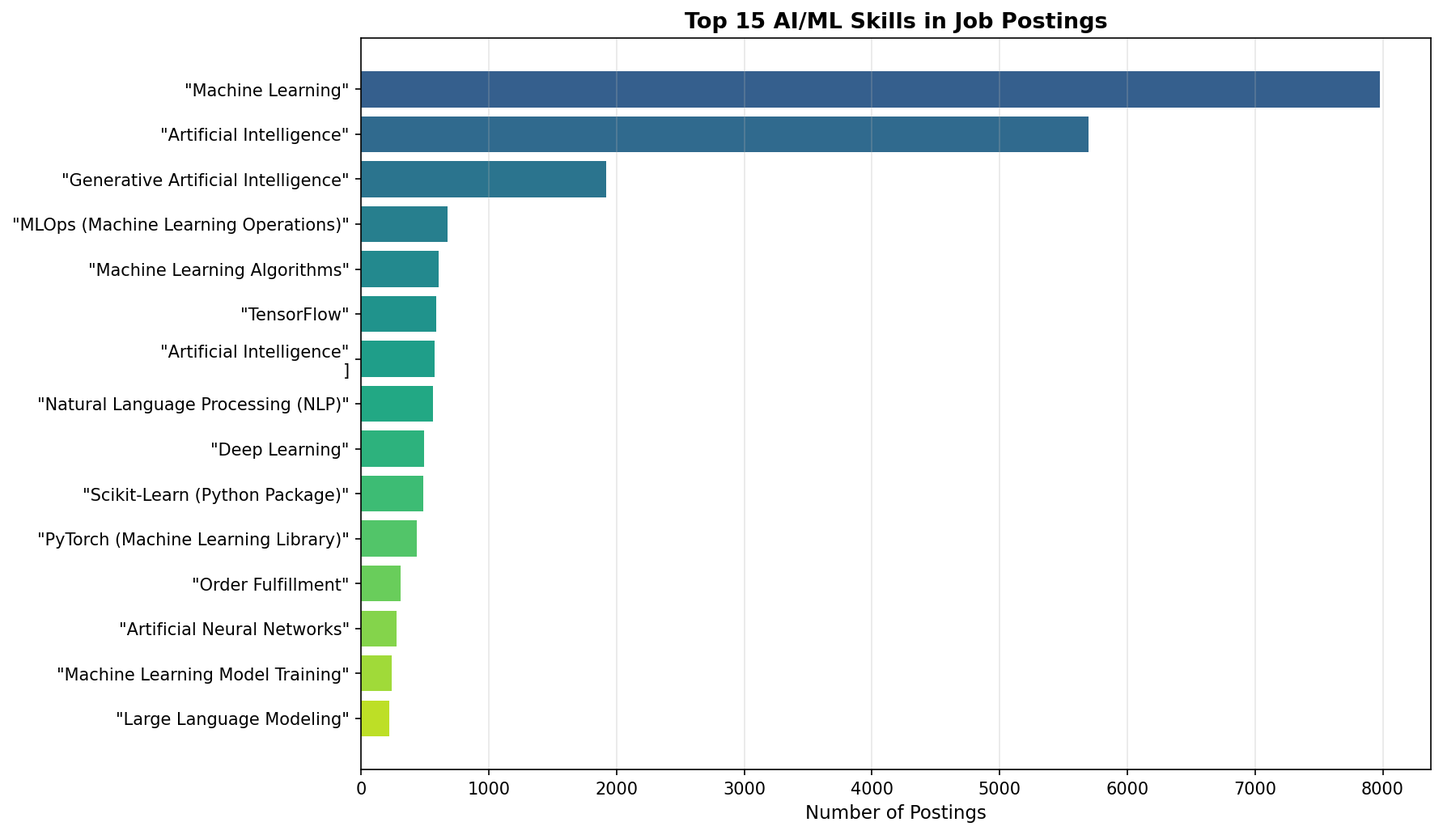
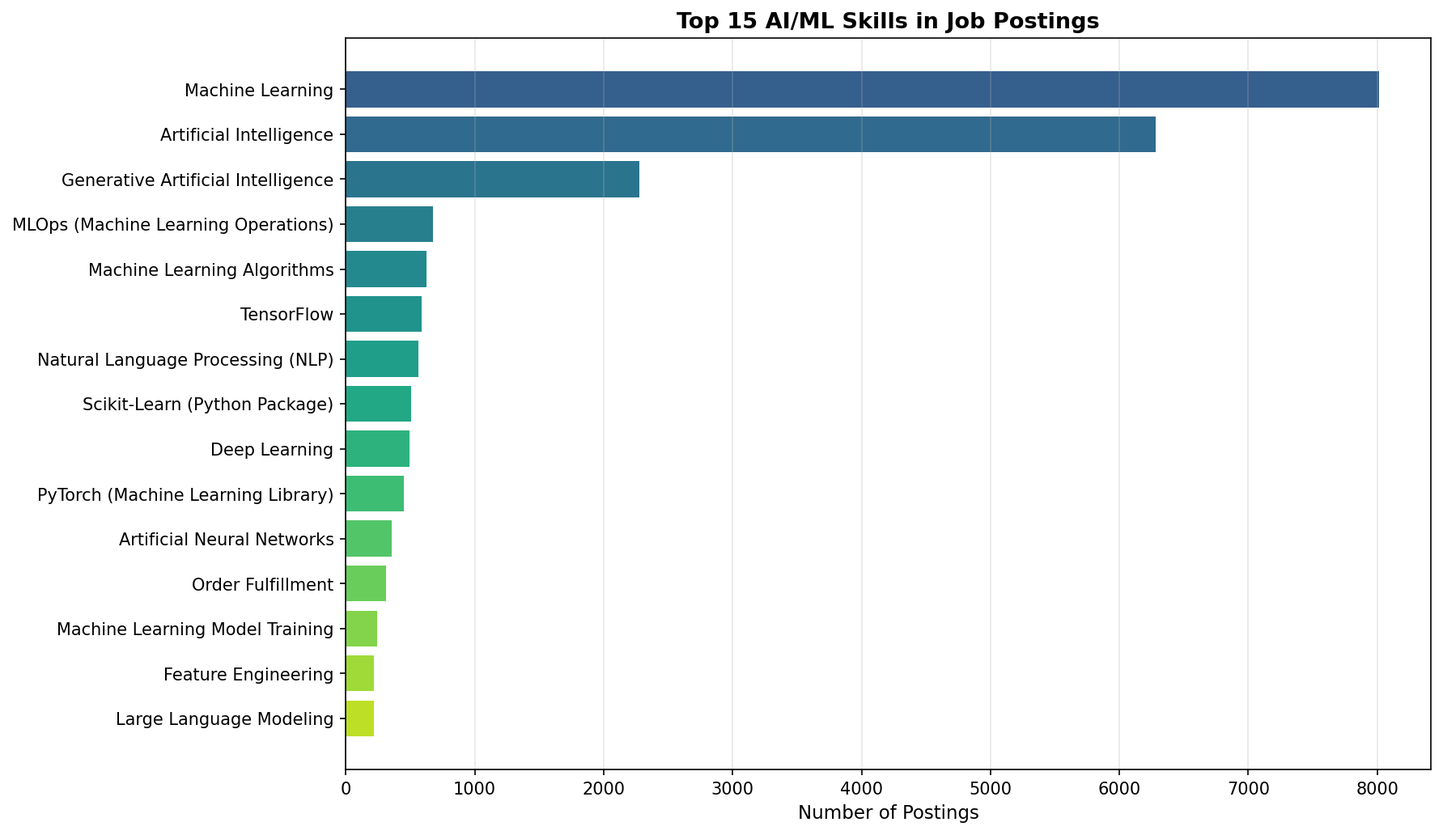
changes to html

diff --git a/_site/omar.html b/_site/omar.html
@@ -22,40 +22,6 @@ ul.task-list li input[type="checkbox"] {
   margin: 0 0.8em 0.2em -1em; /* quarto-specific, see https://github.com/quarto-dev/quarto-cli/issues/4556 */ 
   vertical-align: middle;
 }
-/* CSS for syntax highlighting */
-pre > code.sourceCode { white-space: pre; position: relative; }
-pre > code.sourceCode > span { line-height: 1.25; }
-pre > code.sourceCode > span:empty { height: 1.2em; }
-.sourceCode { overflow: visible; }
-code.sourceCode > span { color: inherit; text-decoration: inherit; }
-div.sourceCode { margin: 1em 0; }
-pre.sourceCode { margin: 0; }
-@media screen {
-div.sourceCode { overflow: auto; }
-}
-@media print {
-pre > code.sourceCode { white-space: pre-wrap; }
-pre > code.sourceCode > span { display: inline-block; text-indent: -5em; padding-left: 5em; }
-}
-pre.numberSource code
-  { counter-reset: source-line 0; }
-pre.numberSource code > span
-  { position: relative; left: -4em; counter-increment: source-line; }
-pre.numberSource code > span > a:first-child::before
-  { content: counter(source-line);
-    position: relative; left: -1em; text-align: right; vertical-align: baseline;
-    border: none; display: inline-block;
-    -webkit-touch-callout: none; -webkit-user-select: none;
-    -khtml-user-select: none; -moz-user-select: none;
-    -ms-user-select: none; user-select: none;
-    padding: 0 4px; width: 4em;
-  }
-pre.numberSource { margin-left: 3em;  padding-left: 4px; }
-div.sourceCode
-  {   }
-@media screen {
-pre > code.sourceCode > span > a:first-child::before { text-decoration: underline; }
-}
 /* CSS for citations */
 div.csl-bib-body { }
 div.csl-entry {
@@ -277,21 +243,7 @@ div.csl-indent {
 <section id="data-loading" class="level2">
 <h2 class="anchored" data-anchor-id="data-loading">Data Loading</h2>
 <p>We load the cleaned Lightcast dataset produced by our shared <a href="./data_cleaning.html">Data Cleaning</a> page. This file has already been deduplicated, date-parsed, and had its skills columns split into Python lists, so we can jump straight into analysis.</p>
-<div id="7e96db46" class="cell" data-execution_count="1">
-<div class="sourceCode cell-code" id="cb1"><pre class="sourceCode python code-with-copy"><code class="sourceCode python"><span id="cb1-1"><a href="#cb1-1" aria-hidden="true" tabindex="-1"></a><span class="im">import</span> pandas <span class="im">as</span> pd</span>
-<span id="cb1-2"><a href="#cb1-2" aria-hidden="true" tabindex="-1"></a><span class="im">import</span> matplotlib</span>
-<span id="cb1-3"><a href="#cb1-3" aria-hidden="true" tabindex="-1"></a>matplotlib.use(<span class="st">'Agg'</span>)</span>
-<span id="cb1-4"><a href="#cb1-4" aria-hidden="true" tabindex="-1"></a><span class="im">import</span> matplotlib.pyplot <span class="im">as</span> plt</span>
-<span id="cb1-5"><a href="#cb1-5" aria-hidden="true" tabindex="-1"></a><span class="im">import</span> numpy <span class="im">as</span> np</span>
-<span id="cb1-6"><a href="#cb1-6" aria-hidden="true" tabindex="-1"></a></span>
-<span id="cb1-7"><a href="#cb1-7" aria-hidden="true" tabindex="-1"></a>df <span class="op">=</span> pd.read_csv(<span class="st">"data/lightcast_cleaned.csv"</span>, parse_dates<span class="op">=</span>[<span class="st">"posted"</span>, <span class="st">"expired"</span>])</span>
-<span id="cb1-8"><a href="#cb1-8" aria-hidden="true" tabindex="-1"></a></span>
-<span id="cb1-9"><a href="#cb1-9" aria-hidden="true" tabindex="-1"></a><span class="co"># Skills columns are stored as pipe-separated strings in the CSV — split back into lists</span></span>
-<span id="cb1-10"><a href="#cb1-10" aria-hidden="true" tabindex="-1"></a><span class="cf">for</span> col <span class="kw">in</span> [<span class="st">"skills_name"</span>, <span class="st">"specialized_skills_name"</span>, <span class="st">"software_skills_name"</span>]:</span>
-<span id="cb1-11"><a href="#cb1-11" aria-hidden="true" tabindex="-1"></a>    <span class="cf">if</span> col <span class="kw">in</span> df.columns:</span>
-<span id="cb1-12"><a href="#cb1-12" aria-hidden="true" tabindex="-1"></a>        df[col] <span class="op">=</span> df[col].fillna(<span class="st">""</span>).<span class="bu">apply</span>(<span class="kw">lambda</span> s: s.split(<span class="st">"|"</span>) <span class="cf">if</span> s <span class="cf">else</span> [])</span>
-<span id="cb1-13"><a href="#cb1-13" aria-hidden="true" tabindex="-1"></a></span>
-<span id="cb1-14"><a href="#cb1-14" aria-hidden="true" tabindex="-1"></a><span class="bu">print</span>(<span class="ss">f"Total postings: </span><span class="sc">{</span><span class="bu">len</span>(df)<span class="sc">:,}</span><span class="ss">"</span>)</span></code><button title="Copy to Clipboard" class="code-copy-button"><i class="bi"></i></button></pre></div>
+<div id="ed06ab94" class="cell" data-execution_count="1">
 <div class="cell-output cell-output-stdout">
 <pre><code>Total postings: 72,454</code></pre>
 </div>
@@ -300,29 +252,7 @@ div.csl-indent {
 <section id="filtering-for-relevant-roles" class="level2">
 <h2 class="anchored" data-anchor-id="filtering-for-relevant-roles">Filtering for Relevant Roles</h2>
 <p>To focus on data science, business analytics, and ML roles, we categorize each posting using keywords matched against the <code>title_name</code> (Lightcast’s standardized job title) and <code>onet_name</code> (Bureau of Labor Statistics occupation classification) columns. This dual-column approach ensures we capture roles that may have non-standard titles but are classified under relevant O*NET codes.</p>
-<div id="cb5ce4a5" class="cell" data-execution_count="2">
-<div class="sourceCode cell-code" id="cb3"><pre class="sourceCode python code-with-copy"><code class="sourceCode python"><span id="cb3-1"><a href="#cb3-1" aria-hidden="true" tabindex="-1"></a>ds_ml_titles <span class="op">=</span> [<span class="st">'data scien'</span>, <span class="st">'machine learn'</span>, <span class="st">'deep learn'</span>, <span class="st">'ai engineer'</span>,</span>
-<span id="cb3-2"><a href="#cb3-2" aria-hidden="true" tabindex="-1"></a>                <span class="st">'nlp engineer'</span>, <span class="st">'computer vision'</span>]</span>
-<span id="cb3-3"><a href="#cb3-3" aria-hidden="true" tabindex="-1"></a>ba_titles <span class="op">=</span> [<span class="st">'business intel'</span>, <span class="st">'business analy'</span>, <span class="st">'bi analyst'</span>, <span class="st">'bi developer'</span>]</span>
-<span id="cb3-4"><a href="#cb3-4" aria-hidden="true" tabindex="-1"></a>da_titles <span class="op">=</span> [<span class="st">'data analy'</span>]</span>
-<span id="cb3-5"><a href="#cb3-5" aria-hidden="true" tabindex="-1"></a>de_titles <span class="op">=</span> [<span class="st">'data engineer'</span>]</span>
-<span id="cb3-6"><a href="#cb3-6" aria-hidden="true" tabindex="-1"></a></span>
-<span id="cb3-7"><a href="#cb3-7" aria-hidden="true" tabindex="-1"></a><span class="kw">def</span> categorize(row):</span>
-<span id="cb3-8"><a href="#cb3-8" aria-hidden="true" tabindex="-1"></a>    t <span class="op">=</span> <span class="bu">str</span>(row[<span class="st">'title_name'</span>]).lower()</span>
-<span id="cb3-9"><a href="#cb3-9" aria-hidden="true" tabindex="-1"></a>    o <span class="op">=</span> <span class="bu">str</span>(row[<span class="st">'onet_name'</span>]).lower()</span>
-<span id="cb3-10"><a href="#cb3-10" aria-hidden="true" tabindex="-1"></a>    c <span class="op">=</span> t <span class="op">+</span> <span class="st">' '</span> <span class="op">+</span> o</span>
-<span id="cb3-11"><a href="#cb3-11" aria-hidden="true" tabindex="-1"></a>    <span class="cf">if</span> <span class="bu">any</span>(k <span class="kw">in</span> c <span class="cf">for</span> k <span class="kw">in</span> ds_ml_titles): <span class="cf">return</span> <span class="st">'Data Science / ML'</span></span>
-<span id="cb3-12"><a href="#cb3-12" aria-hidden="true" tabindex="-1"></a>    <span class="cf">if</span> <span class="bu">any</span>(k <span class="kw">in</span> c <span class="cf">for</span> k <span class="kw">in</span> ba_titles): <span class="cf">return</span> <span class="st">'Business Analytics / BI'</span></span>
-<span id="cb3-13"><a href="#cb3-13" aria-hidden="true" tabindex="-1"></a>    <span class="cf">if</span> <span class="bu">any</span>(k <span class="kw">in</span> c <span class="cf">for</span> k <span class="kw">in</span> da_titles): <span class="cf">return</span> <span class="st">'Data Analytics'</span></span>
-<span id="cb3-14"><a href="#cb3-14" aria-hidden="true" tabindex="-1"></a>    <span class="cf">if</span> <span class="bu">any</span>(k <span class="kw">in</span> c <span class="cf">for</span> k <span class="kw">in</span> de_titles): <span class="cf">return</span> <span class="st">'Data Engineering'</span></span>
-<span id="cb3-15"><a href="#cb3-15" aria-hidden="true" tabindex="-1"></a>    <span class="cf">return</span> <span class="va">None</span></span>
-<span id="cb3-16"><a href="#cb3-16" aria-hidden="true" tabindex="-1"></a></span>
-<span id="cb3-17"><a href="#cb3-17" aria-hidden="true" tabindex="-1"></a>df[<span class="st">'role_category'</span>] <span class="op">=</span> df.<span class="bu">apply</span>(categorize, axis<span class="op">=</span><span class="dv">1</span>)</span>
-<span id="cb3-18"><a href="#cb3-18" aria-hidden="true" tabindex="-1"></a>df_filtered <span class="op">=</span> df[df[<span class="st">'role_category'</span>].notna()].copy()</span>
-<span id="cb3-19"><a href="#cb3-19" aria-hidden="true" tabindex="-1"></a><span class="bu">print</span>(<span class="ss">f"Filtered to </span><span class="sc">{</span><span class="bu">len</span>(df_filtered)<span class="sc">:,}</span><span class="ss"> relevant postings (</span><span class="sc">{</span><span class="bu">len</span>(df_filtered)<span class="op">/</span><span class="bu">len</span>(df)<span class="op">*</span><span class="dv">100</span><span class="sc">:.1f}</span><span class="ss">%)</span><span class="ch">\n</span><span class="ss">"</span>)</span>
-<span id="cb3-20"><a href="#cb3-20" aria-hidden="true" tabindex="-1"></a></span>
-<span id="cb3-21"><a href="#cb3-21" aria-hidden="true" tabindex="-1"></a><span class="bu">print</span>(<span class="st">"Role distribution:"</span>)</span>
-<span id="cb3-22"><a href="#cb3-22" aria-hidden="true" tabindex="-1"></a><span class="bu">print</span>(df_filtered[<span class="st">'role_category'</span>].value_counts().to_string())</span></code><button title="Copy to Clipboard" class="code-copy-button"><i class="bi"></i></button></pre></div>
+<div id="aa01267b" class="cell" data-execution_count="2">
 <div class="cell-output cell-output-stdout">
 <pre><code>Filtered to 72,454 relevant postings (100.0%)
 
@@ -336,18 +266,7 @@ Data Science / ML            585</code></pre>
 <section id="top-30-most-in-demand-skills-overall" class="level2">
 <h2 class="anchored" data-anchor-id="top-30-most-in-demand-skills-overall">Top 30 Most In-Demand Skills (Overall)</h2>
 <p>We explode the skill lists so that each skill–posting pair becomes its own row, then count the frequency of each skill across all filtered postings. This gives us the overall demand landscape. This approach is consistent with how <span class="citation" data-cites="radovilsky2018skills">Radovilsky et al. (<a href="#ref-radovilsky2018skills" role="doc-biblioref">2018</a>)</span> extracted and categorized skill keywords from job posting text.</p>
-<div id="08cdbbbd" class="cell" data-execution_count="3">
-<div class="sourceCode cell-code" id="cb5"><pre class="sourceCode python code-with-copy"><code class="sourceCode python"><span id="cb5-1"><a href="#cb5-1" aria-hidden="true" tabindex="-1"></a>all_skills <span class="op">=</span> df_filtered[<span class="st">'skills_name'</span>].explode().dropna()</span>
-<span id="cb5-2"><a href="#cb5-2" aria-hidden="true" tabindex="-1"></a>all_skills <span class="op">=</span> all_skills[all_skills <span class="op">!=</span> <span class="st">''</span>]</span>
-<span id="cb5-3"><a href="#cb5-3" aria-hidden="true" tabindex="-1"></a>all_counts <span class="op">=</span> all_skills.value_counts()</span>
-<span id="cb5-4"><a href="#cb5-4" aria-hidden="true" tabindex="-1"></a></span>
-<span id="cb5-5"><a href="#cb5-5" aria-hidden="true" tabindex="-1"></a><span class="bu">print</span>(<span class="ss">f"</span><span class="ch">\n</span><span class="sc">{</span><span class="st">'='</span><span class="op">*</span><span class="dv">65</span><span class="sc">}</span><span class="ss">"</span>)</span>
-<span id="cb5-6"><a href="#cb5-6" aria-hidden="true" tabindex="-1"></a><span class="bu">print</span>(<span class="ss">f"TOP 30 MOST IN-DEMAND SKILLS (DS + BA + ML + DE)"</span>)</span>
-<span id="cb5-7"><a href="#cb5-7" aria-hidden="true" tabindex="-1"></a><span class="bu">print</span>(<span class="ss">f"</span><span class="sc">{</span><span class="st">'='</span><span class="op">*</span><span class="dv">65</span><span class="sc">}</span><span class="ss">"</span>)</span>
-<span id="cb5-8"><a href="#cb5-8" aria-hidden="true" tabindex="-1"></a><span class="bu">print</span>(<span class="ss">f"</span><span class="sc">{</span><span class="st">'Rank'</span><span class="sc">:&lt;5}</span><span class="ss"> </span><span class="sc">{</span><span class="st">'Skill'</span><span class="sc">:&lt;40}</span><span class="ss"> </span><span class="sc">{</span><span class="st">'Count'</span><span class="sc">:&gt;7}</span><span class="ss"> </span><span class="sc">{</span><span class="st">'% Posts'</span><span class="sc">:&gt;8}</span><span class="ss">"</span>)</span>
-<span id="cb5-9"><a href="#cb5-9" aria-hidden="true" tabindex="-1"></a><span class="bu">print</span>(<span class="ss">f"</span><span class="sc">{</span><span class="st">'-'</span><span class="op">*</span><span class="dv">65</span><span class="sc">}</span><span class="ss">"</span>)</span>
-<span id="cb5-10"><a href="#cb5-10" aria-hidden="true" tabindex="-1"></a><span class="cf">for</span> r,(s,c) <span class="kw">in</span> <span class="bu">enumerate</span>(all_counts.head(<span class="dv">30</span>).items(),<span class="dv">1</span>):</span>
-<span id="cb5-11"><a href="#cb5-11" aria-hidden="true" tabindex="-1"></a>    <span class="bu">print</span>(<span class="ss">f"</span><span class="sc">{</span>r<span class="sc">:&lt;5}</span><span class="ss"> </span><span class="sc">{</span>s<span class="sc">:&lt;40}</span><span class="ss"> </span><span class="sc">{</span>c<span class="sc">:&gt;7,}</span><span class="ss"> </span><span class="sc">{</span>c<span class="op">/</span><span class="bu">len</span>(df_filtered)<span class="op">*</span><span class="dv">100</span><span class="sc">:&gt;7.1f}</span><span class="ss">%"</span>)</span></code><button title="Copy to Clipboard" class="code-copy-button"><i class="bi"></i></button></pre></div>
+<div id="28ca8221" class="cell" data-execution_count="3">
 <div class="cell-output cell-output-stdout">
 <pre><code>
 =================================================================
@@ -391,16 +310,7 @@ Rank  Skill                                      Count  % Posts
 <section id="top-20-software-and-tools" class="level2">
 <h2 class="anchored" data-anchor-id="top-20-software-and-tools">Top 20 Software and Tools</h2>
 <p>Lightcast separately tags software and tool skills in the <code>software_skills_name</code> column, allowing us to isolate the specific technologies employers require. The dominance of SQL in this ranking aligns with findings from <span class="citation" data-cites="verma2019investigation">Verma et al. (<a href="#ref-verma2019investigation" role="doc-biblioref">2019</a>)</span>, who identified SQL as the most frequently listed technical requirement in analytics job advertisements.</p>
-<div id="888a939e" class="cell" data-execution_count="4">
-<div class="sourceCode cell-code" id="cb7"><pre class="sourceCode python code-with-copy"><code class="sourceCode python"><span id="cb7-1"><a href="#cb7-1" aria-hidden="true" tabindex="-1"></a>sw <span class="op">=</span> df_filtered[<span class="st">'software_skills_name'</span>].explode().dropna()</span>
-<span id="cb7-2"><a href="#cb7-2" aria-hidden="true" tabindex="-1"></a>sw <span class="op">=</span> sw[sw <span class="op">!=</span> <span class="st">''</span>]</span>
-<span id="cb7-3"><a href="#cb7-3" aria-hidden="true" tabindex="-1"></a>sw_counts <span class="op">=</span> sw.value_counts()</span>
-<span id="cb7-4"><a href="#cb7-4" aria-hidden="true" tabindex="-1"></a></span>
-<span id="cb7-5"><a href="#cb7-5" aria-hidden="true" tabindex="-1"></a><span class="bu">print</span>(<span class="ss">f"</span><span class="ch">\n</span><span class="sc">{</span><span class="st">'='</span><span class="op">*</span><span class="dv">65</span><span class="sc">}</span><span class="ss">"</span>)</span>
-<span id="cb7-6"><a href="#cb7-6" aria-hidden="true" tabindex="-1"></a><span class="bu">print</span>(<span class="ss">f"TOP 20 SOFTWARE / TOOLS"</span>)</span>
-<span id="cb7-7"><a href="#cb7-7" aria-hidden="true" tabindex="-1"></a><span class="bu">print</span>(<span class="ss">f"</span><span class="sc">{</span><span class="st">'='</span><span class="op">*</span><span class="dv">65</span><span class="sc">}</span><span class="ss">"</span>)</span>
-<span id="cb7-8"><a href="#cb7-8" aria-hidden="true" tabindex="-1"></a><span class="cf">for</span> r,(s,c) <span class="kw">in</span> <span class="bu">enumerate</span>(sw_counts.head(<span class="dv">20</span>).items(),<span class="dv">1</span>):</span>
-<span id="cb7-9"><a href="#cb7-9" aria-hidden="true" tabindex="-1"></a>    <span class="bu">print</span>(<span class="ss">f"</span><span class="sc">{</span>r<span class="sc">:&lt;5}</span><span class="ss"> </span><span class="sc">{</span>s<span class="sc">:&lt;40}</span><span class="ss"> </span><span class="sc">{</span>c<span class="sc">:&gt;7,}</span><span class="ss"> </span><span class="sc">{</span>c<span class="op">/</span><span class="bu">len</span>(df_filtered)<span class="op">*</span><span class="dv">100</span><span class="sc">:&gt;7.1f}</span><span class="ss">%"</span>)</span></code><button title="Copy to Clipboard" class="code-copy-button"><i class="bi"></i></button></pre></div>
+<div id="0e682f09" class="cell" data-execution_count="4">
 <div class="cell-output cell-output-stdout">
 <pre><code>
 =================================================================
@@ -432,18 +342,7 @@ TOP 20 SOFTWARE / TOOLS
 <section id="skills-breakdown-by-role-category" class="level2">
 <h2 class="anchored" data-anchor-id="skills-breakdown-by-role-category">Skills Breakdown by Role Category</h2>
 <p>Here we compare the top 10 skills within each role category. This comparison reveals important differences: Data Science/ML roles prioritize Python, Machine Learning, and Statistics, while Business Analytics/BI roles emphasize Communication, Management, and Business Process knowledge. This distinction echoes the findings of <span class="citation" data-cites="radovilsky2018skills">Radovilsky et al. (<a href="#ref-radovilsky2018skills" role="doc-biblioref">2018</a>)</span>, who noted that data science emphasizes computer systems, algorithms, and programming skills, whereas business data analytics has a substantial focus on statistical and quantitative analysis of data. <span class="citation" data-cites="levendis2025business">Levendis, Dickes, and Wilks (<a href="#ref-levendis2025business" role="doc-biblioref">2025</a>)</span> similarly found that business analytics employers seek a blend of technical and communication skills.</p>
-<div id="dc6d5ec6" class="cell" data-execution_count="5">
-<div class="sourceCode cell-code" id="cb9"><pre class="sourceCode python code-with-copy"><code class="sourceCode python"><span id="cb9-1"><a href="#cb9-1" aria-hidden="true" tabindex="-1"></a><span class="cf">for</span> cat <span class="kw">in</span> [<span class="st">'Data Science / ML'</span>,<span class="st">'Business Analytics / BI'</span>,<span class="st">'Data Analytics'</span>,<span class="st">'Data Engineering'</span>]:</span>
-<span id="cb9-2"><a href="#cb9-2" aria-hidden="true" tabindex="-1"></a>    sub <span class="op">=</span> df_filtered[df_filtered[<span class="st">'role_category'</span>]<span class="op">==</span>cat]</span>
-<span id="cb9-3"><a href="#cb9-3" aria-hidden="true" tabindex="-1"></a>    <span class="cf">if</span> <span class="bu">len</span>(sub) <span class="op">&lt;</span> <span class="dv">10</span>: <span class="cf">continue</span></span>
-<span id="cb9-4"><a href="#cb9-4" aria-hidden="true" tabindex="-1"></a>    cs <span class="op">=</span> sub[<span class="st">'skills_name'</span>].explode().dropna()</span>
-<span id="cb9-5"><a href="#cb9-5" aria-hidden="true" tabindex="-1"></a>    cs <span class="op">=</span> cs[cs <span class="op">!=</span> <span class="st">''</span>]</span>
-<span id="cb9-6"><a href="#cb9-6" aria-hidden="true" tabindex="-1"></a>    top <span class="op">=</span> cs.value_counts().head(<span class="dv">10</span>)</span>
-<span id="cb9-7"><a href="#cb9-7" aria-hidden="true" tabindex="-1"></a>    <span class="bu">print</span>(<span class="ss">f"</span><span class="ch">\n</span><span class="ss">  </span><span class="sc">{</span><span class="st">'='</span><span class="op">*</span><span class="dv">55</span><span class="sc">}</span><span class="ss">"</span>)</span>
-<span id="cb9-8"><a href="#cb9-8" aria-hidden="true" tabindex="-1"></a>    <span class="bu">print</span>(<span class="ss">f"  </span><span class="sc">{</span>cat<span class="sc">}</span><span class="ss"> (</span><span class="sc">{</span><span class="bu">len</span>(sub)<span class="sc">:,}</span><span class="ss"> postings)"</span>)</span>
-<span id="cb9-9"><a href="#cb9-9" aria-hidden="true" tabindex="-1"></a>    <span class="bu">print</span>(<span class="ss">f"  </span><span class="sc">{</span><span class="st">'='</span><span class="op">*</span><span class="dv">55</span><span class="sc">}</span><span class="ss">"</span>)</span>
-<span id="cb9-10"><a href="#cb9-10" aria-hidden="true" tabindex="-1"></a>    <span class="cf">for</span> r,(s,c) <span class="kw">in</span> <span class="bu">enumerate</span>(top.items(),<span class="dv">1</span>):</span>
-<span id="cb9-11"><a href="#cb9-11" aria-hidden="true" tabindex="-1"></a>        <span class="bu">print</span>(<span class="ss">f"  </span><span class="sc">{</span>r<span class="sc">:&gt;3}</span><span class="ss">. </span><span class="sc">{</span>s<span class="sc">:&lt;35}</span><span class="ss"> </span><span class="sc">{</span>c<span class="sc">:&gt;6,}</span><span class="ss"> (</span><span class="sc">{</span>c<span class="op">/</span><span class="bu">len</span>(sub)<span class="op">*</span><span class="dv">100</span><span class="sc">:.1f}</span><span class="ss">%)"</span>)</span></code><button title="Copy to Clipboard" class="code-copy-button"><i class="bi"></i></button></pre></div>
+<div id="7248feae" class="cell" data-execution_count="5">
 <div class="cell-output cell-output-stdout">
 <pre><code>
   =======================================================
@@ -479,60 +378,6 @@ TOP 20 SOFTWARE / TOOLS
 <section id="plots" class="level2">
 <h2 class="anchored" data-anchor-id="plots">Plots</h2>
 <p>The four-panel chart below summarizes our findings: (1) the top 20 overall skills, (2) the top 15 software/tools, (3) the top 15 specialized technical skills, and (4) a comparison of key skills across role categories.</p>
-<div id="78eea5e3" class="cell" data-execution_count="6">
-<div class="sourceCode cell-code" id="cb11"><pre class="sourceCode python code-with-copy"><code class="sourceCode python"><span id="cb11-1"><a href="#cb11-1" aria-hidden="true" tabindex="-1"></a>fig, axes <span class="op">=</span> plt.subplots(<span class="dv">2</span>, <span class="dv">2</span>, figsize<span class="op">=</span>(<span class="dv">20</span>, <span class="dv">16</span>))</span>
-<span id="cb11-2"><a href="#cb11-2" aria-hidden="true" tabindex="-1"></a>fig.suptitle(<span class="st">'Most In-Demand Skills — DS, BA &amp; ML Roles (Lightcast)'</span>,</span>
-<span id="cb11-3"><a href="#cb11-3" aria-hidden="true" tabindex="-1"></a>             fontsize<span class="op">=</span><span class="dv">16</span>, fontweight<span class="op">=</span><span class="st">'bold'</span>, y<span class="op">=</span><span class="fl">0.98</span>)</span>
-<span id="cb11-4"><a href="#cb11-4" aria-hidden="true" tabindex="-1"></a></span>
-<span id="cb11-5"><a href="#cb11-5" aria-hidden="true" tabindex="-1"></a><span class="co"># Chart 1: Top 20 overall</span></span>
-<span id="cb11-6"><a href="#cb11-6" aria-hidden="true" tabindex="-1"></a>ax <span class="op">=</span> axes[<span class="dv">0</span>,<span class="dv">0</span>]</span>
-<span id="cb11-7"><a href="#cb11-7" aria-hidden="true" tabindex="-1"></a>t20 <span class="op">=</span> all_counts.head(<span class="dv">20</span>)</span>
-<span id="cb11-8"><a href="#cb11-8" aria-hidden="true" tabindex="-1"></a>ax.barh(<span class="bu">range</span>(<span class="bu">len</span>(t20)), t20.values, color<span class="op">=</span>plt.cm.viridis(np.linspace(<span class="fl">.3</span>,<span class="fl">.9</span>,<span class="bu">len</span>(t20))))</span>
-<span id="cb11-9"><a href="#cb11-9" aria-hidden="true" tabindex="-1"></a>ax.set_yticks(<span class="bu">range</span>(<span class="bu">len</span>(t20)))<span class="op">;</span> ax.set_yticklabels(t20.index, fontsize<span class="op">=</span><span class="dv">9</span>)</span>
-<span id="cb11-10"><a href="#cb11-10" aria-hidden="true" tabindex="-1"></a>ax.invert_yaxis()<span class="op">;</span> ax.set_xlabel(<span class="st">'Postings'</span>)<span class="op">;</span> ax.set_title(<span class="st">'Top 20 Skills (All)'</span>, fontweight<span class="op">=</span><span class="st">'bold'</span>)</span>
-<span id="cb11-11"><a href="#cb11-11" aria-hidden="true" tabindex="-1"></a></span>
-<span id="cb11-12"><a href="#cb11-12" aria-hidden="true" tabindex="-1"></a><span class="co"># Chart 2: Top 15 software</span></span>
-<span id="cb11-13"><a href="#cb11-13" aria-hidden="true" tabindex="-1"></a>ax <span class="op">=</span> axes[<span class="dv">0</span>,<span class="dv">1</span>]</span>
-<span id="cb11-14"><a href="#cb11-14" aria-hidden="true" tabindex="-1"></a>t15 <span class="op">=</span> sw_counts.head(<span class="dv">15</span>)</span>
-<span id="cb11-15"><a href="#cb11-15" aria-hidden="true" tabindex="-1"></a>ax.barh(<span class="bu">range</span>(<span class="bu">len</span>(t15)), t15.values, color<span class="op">=</span>plt.cm.plasma(np.linspace(<span class="fl">.3</span>,<span class="fl">.9</span>,<span class="bu">len</span>(t15))))</span>
-<span id="cb11-16"><a href="#cb11-16" aria-hidden="true" tabindex="-1"></a>ax.set_yticks(<span class="bu">range</span>(<span class="bu">len</span>(t15)))<span class="op">;</span> ax.set_yticklabels(t15.index, fontsize<span class="op">=</span><span class="dv">9</span>)</span>
-<span id="cb11-17"><a href="#cb11-17" aria-hidden="true" tabindex="-1"></a>ax.invert_yaxis()<span class="op">;</span> ax.set_xlabel(<span class="st">'Postings'</span>)<span class="op">;</span> ax.set_title(<span class="st">'Top 15 Software/Tools'</span>, fontweight<span class="op">=</span><span class="st">'bold'</span>)</span>
-<span id="cb11-18"><a href="#cb11-18" aria-hidden="true" tabindex="-1"></a></span>
-<span id="cb11-19"><a href="#cb11-19" aria-hidden="true" tabindex="-1"></a><span class="co"># Chart 3: Specialized</span></span>
-<span id="cb11-20"><a href="#cb11-20" aria-hidden="true" tabindex="-1"></a>spec <span class="op">=</span> df_filtered[<span class="st">'specialized_skills_name'</span>].explode().dropna()</span>
-<span id="cb11-21"><a href="#cb11-21" aria-hidden="true" tabindex="-1"></a>spec <span class="op">=</span> spec[spec <span class="op">!=</span> <span class="st">''</span>]</span>
-<span id="cb11-22"><a href="#cb11-22" aria-hidden="true" tabindex="-1"></a>spec_counts <span class="op">=</span> spec.value_counts().head(<span class="dv">15</span>)</span>
-<span id="cb11-23"><a href="#cb11-23" aria-hidden="true" tabindex="-1"></a>ax <span class="op">=</span> axes[<span class="dv">1</span>,<span class="dv">0</span>]</span>
-<span id="cb11-24"><a href="#cb11-24" aria-hidden="true" tabindex="-1"></a>ax.barh(<span class="bu">range</span>(<span class="bu">len</span>(spec_counts)), spec_counts.values, color<span class="op">=</span>plt.cm.cividis(np.linspace(<span class="fl">.3</span>,<span class="fl">.9</span>,<span class="bu">len</span>(spec_counts))))</span>
-<span id="cb11-25"><a href="#cb11-25" aria-hidden="true" tabindex="-1"></a>ax.set_yticks(<span class="bu">range</span>(<span class="bu">len</span>(spec_counts)))<span class="op">;</span> ax.set_yticklabels(spec_counts.index, fontsize<span class="op">=</span><span class="dv">9</span>)</span>
-<span id="cb11-26"><a href="#cb11-26" aria-hidden="true" tabindex="-1"></a>ax.invert_yaxis()<span class="op">;</span> ax.set_xlabel(<span class="st">'Postings'</span>)<span class="op">;</span> ax.set_title(<span class="st">'Top 15 Technical Skills'</span>, fontweight<span class="op">=</span><span class="st">'bold'</span>)</span>
-<span id="cb11-27"><a href="#cb11-27" aria-hidden="true" tabindex="-1"></a></span>
-<span id="cb11-28"><a href="#cb11-28" aria-hidden="true" tabindex="-1"></a><span class="co"># Chart 4: Comparison across roles</span></span>
-<span id="cb11-29"><a href="#cb11-29" aria-hidden="true" tabindex="-1"></a>ax <span class="op">=</span> axes[<span class="dv">1</span>,<span class="dv">1</span>]</span>
-<span id="cb11-30"><a href="#cb11-30" aria-hidden="true" tabindex="-1"></a>key_skills <span class="op">=</span> [<span class="st">'Python (Programming Language)'</span>,<span class="st">'SQL (Programming Language)'</span>,</span>
-<span id="cb11-31"><a href="#cb11-31" aria-hidden="true" tabindex="-1"></a>              <span class="st">'Machine Learning'</span>,<span class="st">'Data Analysis'</span>,<span class="st">'Tableau (Business Intelligence Software)'</span>,</span>
-<span id="cb11-32"><a href="#cb11-32" aria-hidden="true" tabindex="-1"></a>              <span class="st">'R (Programming Language)'</span>,<span class="st">'Power BI'</span>,<span class="st">'Statistics'</span>,<span class="st">'Microsoft Excel'</span>,<span class="st">'Data Visualization'</span>]</span>
-<span id="cb11-33"><a href="#cb11-33" aria-hidden="true" tabindex="-1"></a>cats <span class="op">=</span> [c <span class="cf">for</span> c <span class="kw">in</span> [<span class="st">'Data Science / ML'</span>,<span class="st">'Business Analytics / BI'</span>,<span class="st">'Data Analytics'</span>,<span class="st">'Data Engineering'</span>]</span>
-<span id="cb11-34"><a href="#cb11-34" aria-hidden="true" tabindex="-1"></a>        <span class="cf">if</span> <span class="bu">len</span>(df_filtered[df_filtered[<span class="st">'role_category'</span>]<span class="op">==</span>c]) <span class="op">&gt;</span> <span class="dv">0</span>]</span>
-<span id="cb11-35"><a href="#cb11-35" aria-hidden="true" tabindex="-1"></a></span>
-<span id="cb11-36"><a href="#cb11-36" aria-hidden="true" tabindex="-1"></a>x <span class="op">=</span> np.arange(<span class="bu">len</span>(key_skills))</span>
-<span id="cb11-37"><a href="#cb11-37" aria-hidden="true" tabindex="-1"></a>w <span class="op">=</span> <span class="fl">0.8</span> <span class="op">/</span> <span class="bu">len</span>(cats)</span>
-<span id="cb11-38"><a href="#cb11-38" aria-hidden="true" tabindex="-1"></a><span class="cf">for</span> i, cat <span class="kw">in</span> <span class="bu">enumerate</span>(cats):</span>
-<span id="cb11-39"><a href="#cb11-39" aria-hidden="true" tabindex="-1"></a>    sub <span class="op">=</span> df_filtered[df_filtered[<span class="st">'role_category'</span>]<span class="op">==</span>cat]</span>
-<span id="cb11-40"><a href="#cb11-40" aria-hidden="true" tabindex="-1"></a>    cc <span class="op">=</span> sub[<span class="st">'skills_name'</span>].explode().value_counts()</span>
-<span id="cb11-41"><a href="#cb11-41" aria-hidden="true" tabindex="-1"></a>    vals <span class="op">=</span> [cc.get(s,<span class="dv">0</span>)<span class="op">/</span><span class="bu">len</span>(sub)<span class="op">*</span><span class="dv">100</span> <span class="cf">for</span> s <span class="kw">in</span> key_skills]</span>
-<span id="cb11-42"><a href="#cb11-42" aria-hidden="true" tabindex="-1"></a>    ax.barh(x <span class="op">+</span> i<span class="op">*</span>w, vals, w, label<span class="op">=</span>cat, alpha<span class="op">=</span><span class="fl">0.85</span>)</span>
-<span id="cb11-43"><a href="#cb11-43" aria-hidden="true" tabindex="-1"></a></span>
-<span id="cb11-44"><a href="#cb11-44" aria-hidden="true" tabindex="-1"></a>ax.set_yticks(x <span class="op">+</span> w<span class="op">*</span>(<span class="bu">len</span>(cats)<span class="op">-</span><span class="dv">1</span>)<span class="op">/</span><span class="dv">2</span>)</span>
-<span id="cb11-45"><a href="#cb11-45" aria-hidden="true" tabindex="-1"></a>ax.set_yticklabels(key_skills, fontsize<span class="op">=</span><span class="dv">9</span>)</span>
-<span id="cb11-46"><a href="#cb11-46" aria-hidden="true" tabindex="-1"></a>ax.invert_yaxis()<span class="op">;</span> ax.set_xlabel(<span class="st">'</span><span class="sc">% o</span><span class="st">f Postings'</span>)</span>
-<span id="cb11-47"><a href="#cb11-47" aria-hidden="true" tabindex="-1"></a>ax.set_title(<span class="st">'Key Skills by Role Category'</span>, fontweight<span class="op">=</span><span class="st">'bold'</span>)</span>
-<span id="cb11-48"><a href="#cb11-48" aria-hidden="true" tabindex="-1"></a>ax.legend(fontsize<span class="op">=</span><span class="dv">8</span>, loc<span class="op">=</span><span class="st">'lower right'</span>)</span>
-<span id="cb11-49"><a href="#cb11-49" aria-hidden="true" tabindex="-1"></a></span>
-<span id="cb11-50"><a href="#cb11-50" aria-hidden="true" tabindex="-1"></a>plt.tight_layout()</span>
-<span id="cb11-51"><a href="#cb11-51" aria-hidden="true" tabindex="-1"></a>plt.savefig(<span class="st">'skills_analysis.png'</span>, dpi<span class="op">=</span><span class="dv">150</span>, bbox_inches<span class="op">=</span><span class="st">'tight'</span>)</span>
-<span id="cb11-52"><a href="#cb11-52" aria-hidden="true" tabindex="-1"></a>plt.close()</span></code><button title="Copy to Clipboard" class="code-copy-button"><i class="bi"></i></button></pre></div>
-</div>
 <div class="quarto-figure quarto-figure-center">
 <figure class="figure">
 <p><img src="skills_analysis.png" class="img-fluid figure-img"></p>
